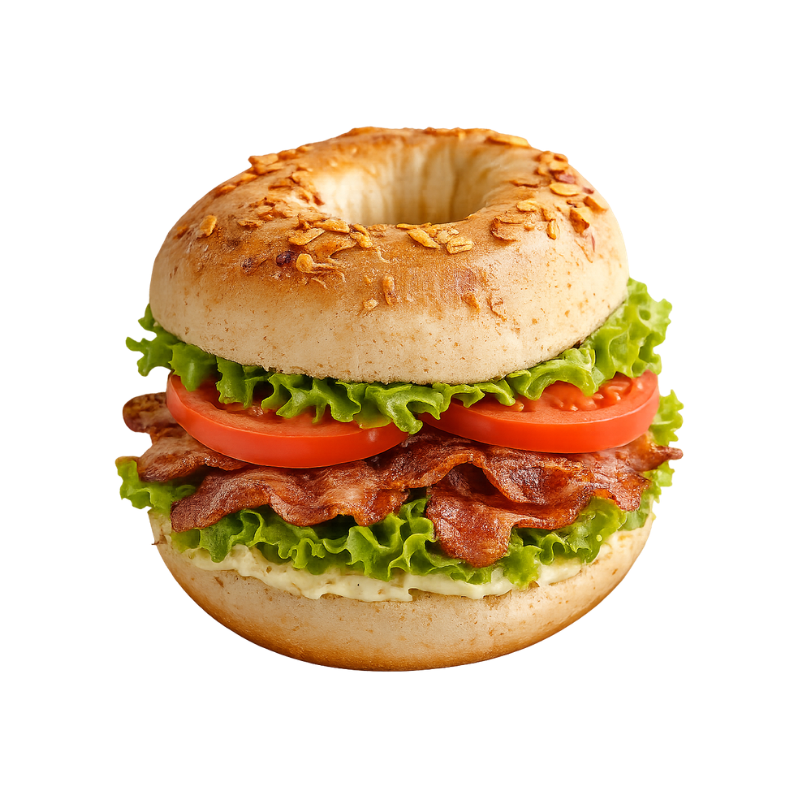
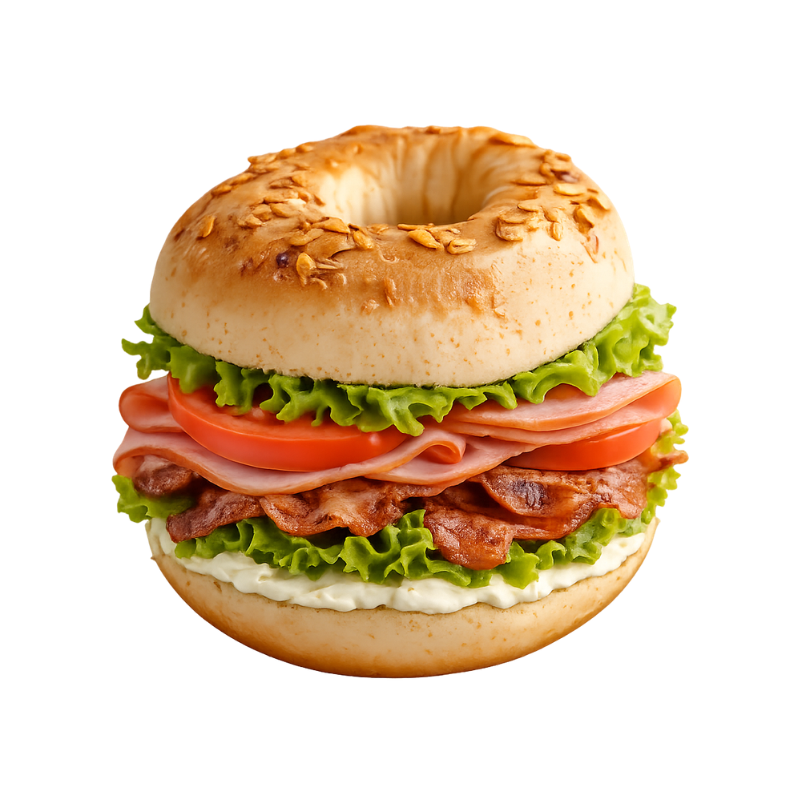
Add files via upload

Changed region(s): [[0.125, 0.1562, 0.875, 0.875]]

diff --git a/main.js b/main.js
@@ -47,65 +47,65 @@ DESAYUNOS_END*/
 const menuData = [
 
   /* ── BEBIDAS CALIENTES ────────────────────── */
-  { id:'espresso',          cat:'calientes', name:'Espresso',             desc:'Shot de espresso puro y concentrado.',                   priceM:'$35',  priceG:'$35', img:'./BEBIDAS/CALIENTES/C-1.png', gradient:'linear-gradient(135deg,#3a1a05,#7a3a10)' },
-  { id:'macciato',          cat:'calientes', name:'Macchiato',            desc:'Espresso con poca espuma de leche.',                     priceM:'$50',  priceG:'$50', img:'./BEBIDAS/CALIENTES/C-2.png', gradient:'linear-gradient(135deg,#4a2010,#8a4a20)' },
-  { id:'cappuccino',        cat:'calientes', name:'Cappuccino',           desc:'Espresso, poca leche y abundante espuma.',               priceM:'$65',  priceG:'$75', img:'./BEBIDAS/CALIENTES/C-3.png',gradient:'linear-gradient(135deg,#5a2a10,#a05020)' },
-  { id:'latte',             cat:'calientes', name:'Latte Natural',        desc:'Espresso con leche vaporizada.',                         priceM:'$65',  priceG:'$75', img:'./BEBIDAS/CALIENTES/C-4.png', gradient:'linear-gradient(135deg,#4a2810,#9a5830)' },
-  { id:'breve',             cat:'calientes', name:'Breve',                desc:'Espresso, mitad agua, mitad leche.',                     priceM:'$45',  priceG:'$55', img:'./BEBIDAS/CALIENTES/C-5.png', gradient:'linear-gradient(135deg,#3a1a08,#6a3a18)' },
-  { id:'americano',         cat:'calientes', name:'Espresso Americano',   desc:'Espresso con agua caliente.',                            priceM:'$45',  priceG:'$55', img:'./BEBIDAS/CALIENTES/C-6.png', gradient:'linear-gradient(135deg,#2a1005,#5a2a15)' },
-  { id:'caramel-macchiato', cat:'calientes', name:'Caramel Macchiato',    desc:'Espresso, caramelo, vainilla y leche.',                  priceM:'$85',  priceG:'$95', img:'./BEBIDAS/CALIENTES/C-7.png', gradient:'linear-gradient(135deg,#7a4a10,#c08030)' },
-  { id:'mocha',             cat:'calientes', name:'Mocha',                desc:'Espresso, chocolate y leche vaporizada.',                priceM:'$75',  priceG:'$85', img:'./BEBIDAS/CALIENTES/C-8.png', gradient:'linear-gradient(135deg,#3a1a0a,#6a3a1a)' },
-  { id:'choc-mexicano',     cat:'calientes', name:'Chocolate Mexicano',   desc:'Chocolate artesanal con leche caliente.',                priceM:'$60',  priceG:'$70', img:'./BEBIDAS/CALIENTES/C-9.png', gradient:'linear-gradient(135deg,#5a1a0a,#9a3a1a)' },
-  { id:'chailatte',         cat:'calientes', name:'Chai Latte',           desc:'Polvo chai con leche vaporizada.',                       priceM:'$75',  priceG:'$85', img:'./BEBIDAS/CALIENTES/C-10.png', gradient:'linear-gradient(135deg,#6a3a10,#b06030)' },
-  { id:'choc-blanco',       cat:'calientes', name:'Chocolate Blanco',     desc:'Chocolate blanco con leche caliente.',                   priceM:'$60',  priceG:'$70', img:'./BEBIDAS/CALIENTES/C-11.png', gradient:'linear-gradient(135deg,#5a3a20,#9a7040)' },
-  { id:'cookies-cream-hot', cat:'calientes', name:'Cookies & Cream',      desc:'Polvo cookies & cream con leche.',                       priceM:'$65',  priceG:'$75', img:'./BEBIDAS/CALIENTES/C-12.png', gradient:'linear-gradient(135deg,#2a1a1a,#5a3a3a)' },
-  { id:'matcha-green',      cat:'calientes', name:'Matcha Tea Green',     desc:'Polvo matcha premium con leche.',                        priceM:'$85',  priceG:'$95', img:'./BEBIDAS/CALIENTES/C-13.png', gradient:'linear-gradient(135deg,#4a2010,#8a4a20)' },
-  { id:'red-velvet-hot',    cat:'calientes', name:'Red Velvet',           desc:'Polvo red velvet con leche caliente.',                   priceM:'$75',  priceG:'$85', img:'./BEBIDAS/CALIENTES/C-14.png', gradient:'linear-gradient(135deg,#5a1a1a,#9a3a3a)' },
-  { id:'latte-mazapan',     cat:'calientes', name:'Latte de Mazapán',     desc:'Espresso, leche, mazapán y vainilla.',                   priceM:'$75',  priceG:'$85', img:'./BEBIDAS/CALIENTES/C-15.png', gradient:'linear-gradient(135deg,#6a3a10,#aa6a30)' },
+  { id:'espresso',          cat:'calientes', name:'Espresso',                       desc:'Shot de espresso.',                           priceM:'$35',  priceG:'$35', img:'./BEBIDAS/CALIENTES/C-1.png', gradient:'linear-gradient(135deg,#3a1a05,#7a3a10)' },
+  { id:'macciato',          cat:'calientes', name:'Macchiato',                      desc:'Espresso con poca espuma.',                   priceM:'$50',  priceG:'$50', img:'./BEBIDAS/CALIENTES/C-2.png', gradient:'linear-gradient(135deg,#4a2010,#8a4a20)' },
+  { id:'cappuccino',        cat:'calientes', name:'Cappuccino',                     desc:'Espresso, poca leche y espuma.',              priceM:'$65',  priceG:'$75', img:'./BEBIDAS/CALIENTES/C-3.png',gradient:'linear-gradient(135deg,#5a2a10,#a05020)' },
+  { id:'latte',             cat:'calientes', name:'Latte Natural',                  desc:'Espresso con leche.',                         priceM:'$65',  priceG:'$75', img:'./BEBIDAS/CALIENTES/C-4.png', gradient:'linear-gradient(135deg,#4a2810,#9a5830)' },
+  { id:'breve',             cat:'calientes', name:'Breve',                          desc:'Espresso, mitad agua, mitad leche.',          priceM:'$45',  priceG:'$55', img:'./BEBIDAS/CALIENTES/C-5.png', gradient:'linear-gradient(135deg,#3a1a08,#6a3a18)' },
+  { id:'americano',         cat:'calientes', name:'Espresso Americano',             desc:'Espresso con agua.',                          priceM:'$45',  priceG:'$55', img:'./BEBIDAS/CALIENTES/C-6.png', gradient:'linear-gradient(135deg,#2a1005,#5a2a15)' },
+  { id:'caramel-macchiato', cat:'calientes', name:'Caramel Macchiato',              desc:'Espresso, caramelo, vainilla y leche.',       priceM:'$85',  priceG:'$95', img:'./BEBIDAS/CALIENTES/C-7.png', gradient:'linear-gradient(135deg,#7a4a10,#c08030)' },
+  { id:'mocha',             cat:'calientes', name:'Mocha',                          desc:'Espresso, chocolate y leche.',                priceM:'$75',  priceG:'$85', img:'./BEBIDAS/CALIENTES/C-8.png', gradient:'linear-gradient(135deg,#3a1a0a,#6a3a1a)' },
+  { id:'choc-mexicano',     cat:'calientes', name:'Chocolate Mexicano',             desc:'Chocolate y leche.',                          priceM:'$60',  priceG:'$70', img:'./BEBIDAS/CALIENTES/C-9.png', gradient:'linear-gradient(135deg,#5a1a0a,#9a3a1a)' },
+  { id:'chailatte',         cat:'calientes', name:'Chai Latte',                     desc:'Polvo chai y leche.',                         priceM:'$75',  priceG:'$85', img:'./BEBIDAS/CALIENTES/C-10.png', gradient:'linear-gradient(135deg,#6a3a10,#b06030)' },
+  { id:'choc-blanco',       cat:'calientes', name:'Chocolate Blanco',               desc:'Chocolate blanco con leche.',                 priceM:'$60',  priceG:'$70', img:'./BEBIDAS/CALIENTES/C-11.png', gradient:'linear-gradient(135deg,#5a3a20,#9a7040)' },
+  { id:'cookies-cream-hot', cat:'calientes', name:'Chocolate Cookies & Cream',      desc:'Polvo cookies & cream con leche.',            priceM:'$65',  priceG:'$75', img:'./BEBIDAS/CALIENTES/C-12.png', gradient:'linear-gradient(135deg,#2a1a1a,#5a3a3a)' },
+  { id:'matcha-green',      cat:'calientes', name:'Matcha Tea Green',               desc:'Polvo matcha con leche.',                     priceM:'$85',  priceG:'$95', img:'./BEBIDAS/CALIENTES/C-13.png', gradient:'linear-gradient(135deg,#4a2010,#8a4a20)' },
+  { id:'red-velvet-hot',    cat:'calientes', name:'Red Velvet',                     desc:'Polvo red velvet con leche.',                 priceM:'$75',  priceG:'$85', img:'./BEBIDAS/CALIENTES/C-14.png', gradient:'linear-gradient(135deg,#5a1a1a,#9a3a3a)' },
+  { id:'latte-mazapan',     cat:'calientes', name:'Latte de Mazapán',               desc:'Espresso, leche, mazapán y vainilla.',        priceM:'$75',  priceG:'$85', img:'./BEBIDAS/CALIENTES/C-15.png', gradient:'linear-gradient(135deg,#6a3a10,#aa6a30)' },
 
   /* ── BOBA TEA ─────────────────────────────── */
-  { id:'boba-mazapan',      cat:'boba', name:'Boba Mazapán',        desc:'Polvo mazapán, leche, hielo, crema batida con boba a elegir.',               price:'$95', img:'./BEBIDAS/BOBA/B-1.png', gradient:'linear-gradient(135deg,#5a2a1a,#9a5a3a)' },
-  { id:'boba-taro',         cat:'boba', name:'Taro Boba',           desc:'Polvo taro, leche, hielo y crema batida con boba a elegir.',                 price:'$95', img:'./BEBIDAS/BOBA/B-2.png', gradient:'linear-gradient(135deg,#4a1a5a,#8a4a9a)' },
-  { id:'boba-pina',         cat:'boba', name:'Piña Colada Boba',    desc:'Polvo piña, leche o té, hielo y crema batida.',                             price:'$110', img:'./BEBIDAS/BOBA/B-3.png', gradient:'linear-gradient(135deg,#4a4a10,#8a8a30)' },
-  { id:'boba-frutosrojos',  cat:'boba', name:'Frutos Rojos Boba',   desc:'Mermelada de la casa, leche o té, crema batida con boba.',                  price:'$95',  img:'./BEBIDAS/BOBA/B-4.png', gradient:'linear-gradient(135deg,#4a1a2a,#8a3a5a)' },
-  { id:'boba-blueberry',    cat:'boba', name:'Blueberry Boba',      desc:'Mermelada de la casa, leche o té, crema batida con boba.',                  price:'$95',  img:'./BEBIDAS/BOBA/B-5.png', gradient:'linear-gradient(135deg,#1a1a5a,#3a3a9a)' },
-  { id:'boba-chai',         cat:'boba', name:'Chai Boba',           desc:'Polvo chai, leche, hielo y crema batida.',                                  price:'$110', img:'./BEBIDAS/BOBA/B-6.png', gradient:'linear-gradient(135deg,#5a3a10,#9a6a30)' },
-  { id:'boba-matcha',       cat:'boba', name:'Matcha Boba',         desc:'Polvo matcha, leche, hielo y crema batida.',                                price:'$110', img:'./BEBIDAS/BOBA/B-7.png', gradient:'linear-gradient(135deg,#1a3a1a,#3a6a3a)' },
-  { id:'boba-mango',        cat:'boba', name:'Mango Boba',          desc:'Mango, leche, base cristal, hielo y crema batida.',                        price:'$95',   img:'./BEBIDAS/BOBA/B-8.png', gradient:'linear-gradient(135deg,#5a3a10,#aa7020)' },
-  { id:'tisana-moras',      cat:'boba', name:'Tisana Moras',        desc:'Tisana moras, hielo con boba a elegir.',                                   price:'$95',   img:'./BEBIDAS/BOBA/B-9.png', gradient:'linear-gradient(135deg,#3a1a3a,#6a3a6a)' },
-  { id:'tisana-tropical',   cat:'boba', name:'Tisana Tropical',     desc:'Tisana fresa, kiwi, piña, coco, manzana con boba.',                        price:'$95',   img:'./BEBIDAS/BOBA/B-10.png', gradient:'linear-gradient(135deg,#3a4a10,#7a8a30)' },
-  { id:'tisana-fresa-kiwi', cat:'boba', name:'Tisana Fresa–Kiwi',   desc:'Tisana fresa y kiwi, hielo con boba.',                                     price:'$95',   img:'./BEBIDAS/BOBA/B-11.png', gradient:'linear-gradient(135deg,#5a1a1a,#9a4a1a)' },
-  { id:'tisana-temporada',  cat:'boba', name:'Tisana Temporada',    desc:'Tisana guayaba, manzana y canela con boba.',                               price:'$95',   img:'./BEBIDAS/BOBA/B-12.png', gradient:'linear-gradient(135deg,#5a1a1a,#9a3a1a)' },
+  { id:'boba-mazapan',      cat:'boba', name:'Mazapán',             desc:'Polvo mazapán, leche, hielo, mazapán, crema batida y boba, perla explosiva o jelly.',                                price:'$95', img:'./BEBIDAS/BOBA/B-1.png', gradient:'linear-gradient(135deg,#5a2a1a,#9a5a3a)' },
+  { id:'boba-taro',         cat:'boba', name:'Taro',                desc:'Polvo taro, leche, hielo, crema batida y boba, perla explosiva o jelly.',                                            price:'$95', img:'./BEBIDAS/BOBA/B-2.png', gradient:'linear-gradient(135deg,#4a1a5a,#8a4a9a)' },
+  { id:'boba-pina',         cat:'boba', name:'Piña Colada',         desc:'Polvo piña, leche o té, hielo, crema batida y boba, perla explosiva o jelly.',                                       price:'$110', img:'./BEBIDAS/BOBA/B-3.png', gradient:'linear-gradient(135deg,#4a4a10,#8a8a30)' },
+  { id:'boba-frutosrojos',  cat:'boba', name:'Frutos Rojos',        desc:'Mermelada de la casa, leche o té, esencia, hielo, crema batida y boba, perla explosiva o jelly.',                    price:'$95',  img:'./BEBIDAS/BOBA/B-4.png', gradient:'linear-gradient(135deg,#4a1a2a,#8a3a5a)' },
+  { id:'boba-blueberry',    cat:'boba', name:'Blueberrys',          desc:'Mermelada de la casa, leche o té, esencia, hielo, crema batida y boba, perla explosiva o jelly.',                    price:'$95',  img:'./BEBIDAS/BOBA/B-5.png', gradient:'linear-gradient(135deg,#1a1a5a,#3a3a9a)' },
+  { id:'boba-chai',         cat:'boba', name:'Chai',                desc:'Polvo chai, leche, hielo, crema batida y boba, perla explosiva o jelly.',                                            price:'$110', img:'./BEBIDAS/BOBA/B-6.png', gradient:'linear-gradient(135deg,#5a3a10,#9a6a30)' },
+  { id:'boba-matcha',       cat:'boba', name:'Matcha Green Tea',    desc:'Polvo matcha, leche, hielo, crema batida, mermelada(fresa, mango, blueberries) y boba, perla explosiva o jelly.',    price:'$110', img:'./BEBIDAS/BOBA/B-7.png', gradient:'linear-gradient(135deg,#1a3a1a,#3a6a3a)' },
+  { id:'boba-mango',        cat:'boba', name:'Mango',               desc:'Mango, leche, base cristal, hielo, crema batida y boba explosiva.',                                                  price:'$95',   img:'./BEBIDAS/BOBA/B-8.png', gradient:'linear-gradient(135deg,#5a3a10,#aa7020)' },
+  { id:'tisana-moras',      cat:'boba', name:'Tisana Moras',        desc:'Tisana moras, hielo y boba, perla explosiva o jelly.',                                                               price:'$95',   img:'./BEBIDAS/BOBA/B-9.png', gradient:'linear-gradient(135deg,#3a1a3a,#6a3a6a)' },
+  { id:'tisana-tropical',   cat:'boba', name:'Tisana Tropical',     desc:'Tisana moras, fresa, kiwi, piña, coco, manzana, hielo y boba, perla explosiva o jelly.',                             price:'$95',   img:'./BEBIDAS/BOBA/B-10.png', gradient:'linear-gradient(135deg,#3a4a10,#7a8a30)' },
+  { id:'tisana-fresa-kiwi', cat:'boba', name:'Tisana Fresa–Kiwi',   desc:'Tisana fresa, kiwi, hielo y boba, perla explosiva o jelly.',                                                         price:'$95',   img:'./BEBIDAS/BOBA/B-11.png', gradient:'linear-gradient(135deg,#5a1a1a,#9a4a1a)' },
+  { id:'tisana-temporada',  cat:'boba', name:'Tisana Temporada',    desc:'Tisana guayaba, manzana, canela y boba, perla explosiva o jelly.',                                                   price:'$95',   img:'./BEBIDAS/BOBA/B-12.png', gradient:'linear-gradient(135deg,#5a1a1a,#9a3a1a)' },
 
   /* ── BEBIDAS FRÍAS ────────────────────────── */
-  { id:'ice-latte',    cat:'frias', name:'Ice Latte',              desc:'Shot de espresso, leche y hielo.',                         priceM:'$75',  priceG:'$85', img:'./BEBIDAS/FRIAS/FR-1.png',  gradient:'linear-gradient(135deg,#1a1a3a,#3a3a6a)' },
-  { id:'ice-coffee',   cat:'frias', name:'Ice Coffee',             desc:'Shot de espresso, agua y hielo.',                          priceM:'$65',  priceG:'$75', img:'./BEBIDAS/FRIAS/FR-2.png',  gradient:'linear-gradient(135deg,#1a0a0a,#3a2a2a)' },
-  { id:'ice-caramel',  cat:'frias', name:'Ice Caramel Macchiato',  desc:'Espresso, vainilla, caramelo, leche y hielo.',             priceM:'$85',  priceG:'$95', img:'./BEBIDAS/FRIAS/FR-3.png',  gradient:'linear-gradient(135deg,#3a2a10,#7a6030)' },
-  { id:'ice-mocha',    cat:'frias', name:'Ice Mocha',              desc:'Espresso, leche, hielo y chocolate.',                      priceM:'$75',  priceG:'$85', img:'./BEBIDAS/FRIAS/FR-4.png',  gradient:'linear-gradient(135deg,#2a1a0a,#5a3a1a)' },
-  { id:'ice-chai',     cat:'frias', name:'Ice Chai Latte',         desc:'Polvo chai, leche y hielo.',                               priceM:'$75',  priceG:'$85', img:'./BEBIDAS/FRIAS/FR-5.png',  gradient:'linear-gradient(135deg,#4a2a10,#8a5a30)' },
-  { id:'ice-cookies',  cat:'frias', name:'Ice Cookies & Cream',    desc:'Polvo Cookies & Cream, leche, hielo y oreo.',              priceM:'$75',  priceG:'$85', img:'./BEBIDAS/FRIAS/FR-6.png',  gradient:'linear-gradient(135deg,#1a1a1a,#3a3a3a)' },
-  { id:'ice-matcha',   cat:'frias', name:'Ice Matcha Green Tea',   desc:'Polvo matcha, leche y hielo.',                             priceM:'$85',  priceG:'$95', img:'./BEBIDAS/FRIAS/FR-7.png',  gradient:'linear-gradient(135deg,#1a3a1a,#3a6a3a)' },
-  { id:'ice-tisanas',  cat:'frias', name:'Ice Tisanas',            desc:'Tisana moras, manzana canela o tropical, con hielo.',      priceM:'$75',  priceG:'$85', img:'./BEBIDAS/FRIAS/FR-8.png',  gradient:'linear-gradient(135deg,#1a2a1a,#3a5a3a)' },
-  { id:'ice-tea',      cat:'frias', name:'Ice Tea',                desc:'Té frutos rojos o té verde, esencia y hielo.',             priceM:'$60',  priceG:'$70', img:'./BEBIDAS/FRIAS/FR-9.png',  gradient:'linear-gradient(135deg,#3a1a2a,#6a3a4a)' },
-  { id:'soda-italiana',cat:'frias', name:'Soda Italiana',          desc:'Agua mineral, esencia y hielo.',                           priceM:'$65',  priceG:'$75', img:'./BEBIDAS/FRIAS/FR-10.png',  gradient:'linear-gradient(135deg,#1a2a3a,#3a5a7a)' },
-  { id:'ice-orange',   cat:'frias', name:'Ice Orange Coffee',      desc:'Espresso, agua, hielo, miel y jugo de naranja.',           priceM:'$75',  priceG:'$85', img:'./BEBIDAS/FRIAS/FR-11.png',  gradient:'linear-gradient(135deg,#5a3a10,#aa6a20)' },
+  { id:'ice-latte',    cat:'frias', name:'Ice Latte',              desc:'Shot de espresso, leche y hielo.',                                  priceM:'$75',  priceG:'$85', img:'./BEBIDAS/FRIAS/FR-1.png',  gradient:'linear-gradient(135deg,#1a1a3a,#3a3a6a)' },
+  { id:'ice-coffee',   cat:'frias', name:'Ice Coffee',             desc:'Shot de espresso, agua y hielo.',                                   priceM:'$65',  priceG:'$75', img:'./BEBIDAS/FRIAS/FR-2.png',  gradient:'linear-gradient(135deg,#1a0a0a,#3a2a2a)' },
+  { id:'ice-caramel',  cat:'frias', name:'Ice Caramel Macchiato',  desc:'Shot espresso, vainilla, caramelo, leche y hielo.',                 priceM:'$85',  priceG:'$95', img:'./BEBIDAS/FRIAS/FR-3.png',  gradient:'linear-gradient(135deg,#3a2a10,#7a6030)' },
+  { id:'ice-mocha',    cat:'frias', name:'Ice Mocha',              desc:'Shot espresso, polvo mocha, leche, hielo y chocolate.',             priceM:'$75',  priceG:'$85', img:'./BEBIDAS/FRIAS/FR-4.png',  gradient:'linear-gradient(135deg,#2a1a0a,#5a3a1a)' },
+  { id:'ice-chai',     cat:'frias', name:'Ice Chai Latte',         desc:'Polvo chai, leche y hielo.',                                        priceM:'$75',  priceG:'$85', img:'./BEBIDAS/FRIAS/FR-5.png',  gradient:'linear-gradient(135deg,#4a2a10,#8a5a30)' },
+  { id:'ice-cookies',  cat:'frias', name:'Ice Cookies & Cream',    desc:'Polvo Cookies & Cream, leche, hielo y oreo.',                       priceM:'$75',  priceG:'$85', img:'./BEBIDAS/FRIAS/FR-6.png',  gradient:'linear-gradient(135deg,#1a1a1a,#3a3a3a)' },
+  { id:'ice-matcha',   cat:'frias', name:'Ice Matcha Green Tea',   desc:'Polvo matcha, leche y hielo.',                                      priceM:'$85',  priceG:'$95', img:'./BEBIDAS/FRIAS/FR-7.png',  gradient:'linear-gradient(135deg,#1a3a1a,#3a6a3a)' },
+  { id:'ice-tisanas',  cat:'frias', name:'Ice Tisanas',            desc:'Tisana moras, manzana canela o tropical de temporada, hielo.',      priceM:'$75',  priceG:'$85', img:'./BEBIDAS/FRIAS/FR-8.png',  gradient:'linear-gradient(135deg,#1a2a1a,#3a5a3a)' },
+  { id:'ice-tea',      cat:'frias', name:'Ice Tea',                desc:'Té frutos rojos o té verde, esencia y hielo.',                      priceM:'$60',  priceG:'$70', img:'./BEBIDAS/FRIAS/FR-9.png',  gradient:'linear-gradient(135deg,#3a1a2a,#6a3a4a)' },
+  { id:'soda-italiana',cat:'frias', name:'Soda Italiana',          desc:'Agua mineral, esencia y hielo.',                                    priceM:'$65',  priceG:'$75', img:'./BEBIDAS/FRIAS/FR-10.png',  gradient:'linear-gradient(135deg,#1a2a3a,#3a5a7a)' },
+  { id:'ice-orange',   cat:'frias', name:'Ice Orange Coffee',      desc:'Shot espresso, agua, hielo, miel y jugo de naranja.',               priceM:'$75',  priceG:'$85', img:'./BEBIDAS/FRIAS/FR-11.png',  gradient:'linear-gradient(135deg,#5a3a10,#aa6a20)' },
 
   /* ── FRAPPUCCINOS ─────────────────────────── */
-  { id:'frappe-mocha',       cat:'frappuccinos', name:'Frappuccino Mocha',       desc:'Polvo mocha, espresso, leche, hielo, chocolate y crema batida.',               priceM:'$75',  priceG:'$85', img:'./BEBIDAS/FRAPPUCCINOS/F-1.png',   gradient:'linear-gradient(135deg,#3a1a0a,#6a3a1a)' },
-  { id:'frappe-caramel',     cat:'frappuccinos', name:'Frappuccino Caramel',     desc:'Polvo francesa, vainilla, caramelo, leche, hielo y crema batida.',             priceM:'$75',  priceG:'$85', img:'./BEBIDAS/FRAPPUCCINOS/F-2.png',   gradient:'linear-gradient(135deg,#6a3a10,#aa6a30)' },
-  { id:'frappe-vainilla',    cat:'frappuccinos', name:'Frappuccino Vainilla',    desc:'Polvo vainilla, leche, hielo y crema batida.',                                 priceM:'$75',  priceG:'$85', img:'./BEBIDAS/FRAPPUCCINOS/F-3.png',   gradient:'linear-gradient(135deg,#5a3a20,#9a7040)' },
-  { id:'frappe-oreo',        cat:'frappuccinos', name:'Frappuccino Oreo',        desc:'Polvo Cookies & Cream, oreo, leche, hielo y crema batida.',                    priceM:'$75',  priceG:'$85', img:'./BEBIDAS/FRAPPUCCINOS/F-4.png',   gradient:'linear-gradient(135deg,#1a1a1a,#4a4a4a)' },
-  { id:'frappe-chai',        cat:'frappuccinos', name:'Frappuccino Chai',        desc:'Polvo chai, leche, hielo y crema batida.',                                     priceM:'$75',  priceG:'$85', img:'./BEBIDAS/FRAPPUCCINOS/F-5.png',   gradient:'linear-gradient(135deg,#5a3a10,#9a6a30)' },
-  { id:'frappe-ferrero',     cat:'frappuccinos', name:'Frappuccino Ferrero',     desc:'Polvo vainilla, avellana, crema avellana, leche y crema batida.',              priceM:'$90',  priceG:'$100',img:'./BEBIDAS/FRAPPUCCINOS/F-6.png',  gradient:'linear-gradient(135deg,#4a2a10,#8a5a30)' },
-  { id:'frappe-matcha',      cat:'frappuccinos', name:'Frappuccino Matcha',      desc:'Polvo matcha, leche, hielo y crema batida.',                                   priceM:'$85',  priceG:'$95', img:'./BEBIDAS/FRAPPUCCINOS/F-7.png',  gradient:'linear-gradient(135deg,#1a3a1a,#3a6a3a)' },
-  { id:'frappe-reeses',      cat:'frappuccinos', name:'Frappuccino Reeses',      desc:'Polvo vainilla, leche, crema de cacahuate, hielo y chocolate.',                priceM:'$90',  priceG:'$100', img:'./BEBIDAS/FRAPPUCCINOS/F-8.png', gradient:'linear-gradient(135deg,#5a3a10,#9a6a30)' },
-  { id:'frappe-nutella',     cat:'frappuccinos', name:'Frappuccino Nutella',     desc:'Polvo chocolate, nutella, leche, hielo y crema batida.',                       priceM:'$85',  priceG:'$95', img:'./BEBIDAS/FRAPPUCCINOS/F-9.png',  gradient:'linear-gradient(135deg,#3a1a0a,#6a3a1a)' },
-  { id:'frappe-galleta',     cat:'frappuccinos', name:'Explosión de Galleta',    desc:'Polvo francesa, espresso, galleta maría, leche y crema batida.',               priceM:'$75',  priceG:'$85', img:'./BEBIDAS/FRAPPUCCINOS/F-10.png',  gradient:'linear-gradient(135deg,#5a3a20,#9a7040)' },
-  { id:'frappe-cherry',      cat:'frappuccinos', name:'Cherry Frappe',           desc:'Polvo vainilla, cereza, leche y hielo.',                                       priceM:'$85',  priceG:'$95', img:'./BEBIDAS/FRAPPUCCINOS/F-11.png',  gradient:'linear-gradient(135deg,#5a1a1a,#9a3a3a)' },
-  { id:'frappe-creme-brulee',cat:'frappuccinos', name:'Creme Brûlée',            desc:'Polvo de creme brûlée, leche, hielo, trozos de flan y jarabe de maple.',       priceM:'$100', priceG:'$110',img:'./BEBIDAS/FRAPPUCCINOS/F-12.png',  gradient:'linear-gradient(135deg,#6a4a10,#aa8030)' },
-  { id:'frappe-chomenta',    cat:'frappuccinos', name:'Choco–Menta',             desc:'Polvo mocha, espresso, menta, leche, hielo y chocolate.',                      priceM:'$85',  priceG:'$95', img:'./BEBIDAS/FRAPPUCCINOS/F-13.png', gradient:'linear-gradient(135deg,#1a3a1a,#3a6a4a)' },
-  { id:'frappe-mazapan',     cat:'frappuccinos', name:'Frappuccino Mazapán',     desc:'Polvo vainilla, mazapán, leche, hielo y crema batida.',                        priceM:'$75',  priceG:'$85', img:'./BEBIDAS/FRAPPUCCINOS/F-14.png',  gradient:'linear-gradient(135deg,#5a3a10,#9a6a30)' },
-  { id:'frappe-bombon',      cat:'frappuccinos', name:'Frappuccino Bombón',      desc:'Polvo vainilla, leche, bombón, hielo y crema batida.',                         priceM:'$85',  priceG:'$95', img:'./BEBIDAS/FRAPPUCCINOS/F-15.png', gradient:'linear-gradient(135deg,#5a1a3a,#9a3a6a)' },
+  { id:'frappe-mocha',       cat:'frappuccinos', name:'Frappuccino Mocha',       desc:'Polvo mocha, shot espresso, leche, hielo, chocolate, galleta y crema batida.',        priceM:'$75',  priceG:'$85', img:'./BEBIDAS/FRAPPUCCINOS/F-1.png',   gradient:'linear-gradient(135deg,#3a1a0a,#6a3a1a)' },
+  { id:'frappe-caramel',     cat:'frappuccinos', name:'Frappuccino Caramel',     desc:'Polvo francesa, vainilla, caramelo, leche, hielo, galleta y crema batida.',           priceM:'$75',  priceG:'$85', img:'./BEBIDAS/FRAPPUCCINOS/F-2.png',   gradient:'linear-gradient(135deg,#6a3a10,#aa6a30)' },
+  { id:'frappe-vainilla',    cat:'frappuccinos', name:'Frappuccino Vainilla',    desc:'Polvo vainilla, leche, hielo, galleta y crema batida.',                               priceM:'$75',  priceG:'$85', img:'./BEBIDAS/FRAPPUCCINOS/F-3.png',   gradient:'linear-gradient(135deg,#5a3a20,#9a7040)' },
+  { id:'frappe-oreo',        cat:'frappuccinos', name:'Frappuccino Oreo',        desc:'Polvo Cookies & Cream, oreo, leche, hielo, galleta y crema batida.',                  priceM:'$75',  priceG:'$85', img:'./BEBIDAS/FRAPPUCCINOS/F-4.png',   gradient:'linear-gradient(135deg,#1a1a1a,#4a4a4a)' },
+  { id:'frappe-chai',        cat:'frappuccinos', name:'Frappuccino Chai',        desc:'Polvo chai, leche, hielo, galleta y crema batida.',                                   priceM:'$75',  priceG:'$85', img:'./BEBIDAS/FRAPPUCCINOS/F-5.png',   gradient:'linear-gradient(135deg,#5a3a10,#9a6a30)' },
+  { id:'frappe-ferrero',     cat:'frappuccinos', name:'Frappuccino Ferrero',     desc:'Polvo vainilla, avellana, crema avellana, leche, hielo y crema batida.',              priceM:'$90',  priceG:'$100',img:'./BEBIDAS/FRAPPUCCINOS/F-6.png',  gradient:'linear-gradient(135deg,#4a2a10,#8a5a30)' },
+  { id:'frappe-matcha',      cat:'frappuccinos', name:'Frappuccino Matcha',      desc:'Polvo matcha, leche, hielo, galleta y crema batida.',                                 priceM:'$85',  priceG:'$95', img:'./BEBIDAS/FRAPPUCCINOS/F-7.png',  gradient:'linear-gradient(135deg,#1a3a1a,#3a6a3a)' },
+  { id:'frappe-reeses',      cat:'frappuccinos', name:'Frappuccino Reeses',      desc:'Polvo vainilla, leche, crema de cacahuate, hielo, crema batida  y chocolate.',        priceM:'$90',  priceG:'$100', img:'./BEBIDAS/FRAPPUCCINOS/F-8.png', gradient:'linear-gradient(135deg,#5a3a10,#9a6a30)' },
+  { id:'frappe-nutella',     cat:'frappuccinos', name:'Frappuccino Nutella',     desc:'Polvo chocolate, nutella, leche, hielo y crema batida.',                              priceM:'$85',  priceG:'$95', img:'./BEBIDAS/FRAPPUCCINOS/F-9.png',  gradient:'linear-gradient(135deg,#3a1a0a,#6a3a1a)' },
+  { id:'frappe-galleta',     cat:'frappuccinos', name:'Explosión de Galleta',    desc:'Polvo francesa, shot espresso, galleta maría, leche, hielo y crema batida.',          priceM:'$75',  priceG:'$85', img:'./BEBIDAS/FRAPPUCCINOS/F-10.png',  gradient:'linear-gradient(135deg,#5a3a20,#9a7040)' },
+  { id:'frappe-cherry',      cat:'frappuccinos', name:'Cherry Frappe',           desc:'Polvo vainilla, cereza, leche y hielo.',                                              priceM:'$85',  priceG:'$95', img:'./BEBIDAS/FRAPPUCCINOS/F-11.png',  gradient:'linear-gradient(135deg,#5a1a1a,#9a3a3a)' },
+  { id:'frappe-creme-brulee',cat:'frappuccinos', name:'Creme Brûlée',            desc:'Polvo de creme brûlée, leche, hielo, trozos de flan y jarabe de mapple.',             priceM:'$100', priceG:'$110',img:'./BEBIDAS/FRAPPUCCINOS/F-12.png',  gradient:'linear-gradient(135deg,#6a4a10,#aa8030)' },
+  { id:'frappe-chomenta',    cat:'frappuccinos', name:'Choco–Menta',             desc:'Polvo moca, shot espresso, menta, leche, hielo, chocolate y crema batida.',           priceM:'$85',  priceG:'$95', img:'./BEBIDAS/FRAPPUCCINOS/F-13.png', gradient:'linear-gradient(135deg,#1a3a1a,#3a6a4a)' },
+  { id:'frappe-mazapan',     cat:'frappuccinos', name:'Frappuccino Mazapán',     desc:'Polvo vainilla, mazapán, leche, hielo y crema batida.',                               priceM:'$75',  priceG:'$85', img:'./BEBIDAS/FRAPPUCCINOS/F-14.png',  gradient:'linear-gradient(135deg,#5a3a10,#9a6a30)' },
+  { id:'frappe-bombon',      cat:'frappuccinos', name:'Frappuccino Bombón',      desc:'Polvo vainilla, leche, bombón, hielo y crema batida.',                                priceM:'$85',  priceG:'$95', img:'./BEBIDAS/FRAPPUCCINOS/F-15.png', gradient:'linear-gradient(135deg,#5a1a3a,#9a3a6a)' },
 
   /* ── POSTRES/DULCE ──────────────────────────────── */
   { id:'pay-limon',        cat:'postres', name:'Pay de Limón',          desc:'Rebanada de pay de queso con limón.',                              price:'$55', img:'./POSTRES/DULCE/1-P.png' },
@@ -114,7 +114,7 @@ const menuData = [
   { id:'pay-frambuesa',    cat:'postres', name:'Pay de Queso Frambuesa',desc:'Rebanada de pay de queso con frambuesa.',                          price:'$65', img:'./POSTRES/DULCE/4-P.png' },
   { id:'galletas',         cat:'postres', name:'Galletas',              desc:'Galletas artesanales, precio por pieza.',                          price:'$15', img:'./POSTRES/DULCE/5-P.png' },
   { id:'pan-dulce',        cat:'postres', name:'Pan Dulce',             desc:'Selección de pan dulce, precio por pieza.',                        price:'$25', img:'./POSTRES/DULCE/6-P.png' },
-  { id:'pan-frances',      cat:'postres', name:'Pan Frances',           desc:'Pan Frances con nieve, elige tu opción favorita.',                                      price:'$200', img:'./POSTRES/DULCE/7-P.png',
+  { id:'pan-frances',      cat:'postres', name:'Pan Frances',           desc:'Pan Frances con nieve, elige tu opción favorita.',                 price:'$200', img:'./POSTRES/DULCE/7-P.png',
     opcionesP: [
       { nombre:'Ferrero o Kinder bueno'},
       { nombre:'Tiramisú'},
@@ -123,7 +123,7 @@ const menuData = [
       { nombre:'Cinnamon'},
     ]
   },
-  { id:'crepa-dulce',      cat:'postres', name:'Crepas',                desc:'Crepas dulces con nieve, elige tu opción favorita.',                                    price:'$150', img:'./POSTRES/DULCE/8-P.png',
+  { id:'crepa-dulce',      cat:'postres', name:'Crepas',                desc:'Crepas dulces con nieve, elige tu opción favorita.',                price:'$150', img:'./POSTRES/DULCE/8-P.png',
     opcionesD: [
       { nombre:'Nutella con Plátano'},
       { nombre:'Ferrero'},
@@ -134,18 +134,18 @@ const menuData = [
   },
 
   /* ── SALADOS ──────────────────────────────── */
-  { id:'bagel-jamon',    cat:'salados', name:'Bagel de Jamón',              desc:'Jamón, lechuga, tomate, tocino y mayonesa.',                                             price:'$85',  img:'./SALADOS/S-1.png', gradient:'linear-gradient(135deg,#3a2a1a,#7a5a3a)' },
-  { id:'bagel-pollo',    cat:'salados', name:'Bagel de Pollo',              desc:'Pollo, lechuga, tomate, tocino y mayonesa.',                                             price:'$100', img:'./SALADOS/S-2.png', gradient:'linear-gradient(135deg,#4a3a1a,#8a6a3a)' },
-  { id:'bagel-americano',cat:'salados', name:'Bagel Americano',             desc:'Huevo, jamón, tocino y queso amarillo.',                                                 price:'$85',  img:'./SALADOS/S-3.png', gradient:'linear-gradient(135deg,#5a3a10,#9a6a30)' },
-  { id:'sandwich-jamon', cat:'salados', name:'Sandwich de Jamón',           desc:'Jamón, lechuga, tomate, tocino y mayonesa.',                                             price:'$85',  img:'./SALADOS/S-4.png', gradient:'linear-gradient(135deg,#3a2a1a,#7a5a3a)' },
-  { id:'sandwich-pollo', cat:'salados', name:'Sandwich de Pollo',           desc:'Pollo, lechuga, tomate, tocino y mayonesa.',                                             price:'$95',  img:'./SALADOS/S-5.png', gradient:'linear-gradient(135deg,#4a3a1a,#8a6a3a)' },
+  { id:'bagel-jamon',    cat:'salados', name:'Bagel de Jamón',              desc:'Jamón, lechuga, tomate, tocino y queso crema.',                                          price:'$85',  img:'./SALADOS/S-1.png', gradient:'linear-gradient(135deg,#3a2a1a,#7a5a3a)' },
+  { id:'bagel-pollo',    cat:'salados', name:'Bagel de Pollo',              desc:'Pollo, lechuga, tomate, queso amarillo y queso crema.',                                  price:'$100', img:'./SALADOS/S-2.png', gradient:'linear-gradient(135deg,#4a3a1a,#8a6a3a)' },
+  { id:'bagel-americano',cat:'salados', name:'Bagel Americano',             desc:'Huevo, jamón, tocino, queso amarillo y queso crema.',                                    price:'$85',  img:'./SALADOS/S-3.png', gradient:'linear-gradient(135deg,#5a3a10,#9a6a30)' },
+  { id:'sandwich-jamon', cat:'salados', name:'Sandwich de Jamón',           desc:'Jamón, lechuga, tomate, queso amarillo y mayonesa.',                                     price:'$85',  img:'./SALADOS/S-4.png', gradient:'linear-gradient(135deg,#3a2a1a,#7a5a3a)' },
+  { id:'sandwich-pollo', cat:'salados', name:'Sandwich de Pollo',           desc:'Pollo, lechuga, tomate, queso amarillo y mayonesa.',                                     price:'$95',  img:'./SALADOS/S-5.png', gradient:'linear-gradient(135deg,#4a3a1a,#8a6a3a)' },
   { id:'croissant',      cat:'salados', name:'Croissant de Jamón Serrano',  desc:'Jamón Serrano, queso panela, mix de ensalada primavera.',                                price:'$145', img:'./SALADOS/S-9.png', gradient:'linear-gradient(135deg,#4a3a1a,#8a6a3a)' },
   { id:'croissant',      cat:'salados', name:'Croissant de Huevo',          desc:'Huevo, jamón, germinado.',                                                               price:'$145', img:'./SALADOS/S-10.png', gradient:'linear-gradient(135deg,#4a3a1a,#8a6a3a)' },
   { id:'croissant',      cat:'salados', name:'Croissant de Jamón',          desc:'Jamón, queso mozzarella, mix de ensalada primavera.',                                    price:'$145', img:'./SALADOS/S-11.png', gradient:'linear-gradient(135deg,#4a3a1a,#8a6a3a)' },
   { id:'croissant',      cat:'salados', name:'Croissant de Manchego',       desc:'Jamón, queso manchego, tomate, lechuga.',                                                price:'$145', img:'./SALADOS/S-12.png', gradient:'linear-gradient(135deg,#4a3a1a,#8a6a3a)' },
-  { id:'ensalada-cesar', cat:'salados', name:'Ensalada Pollo',              desc:'Lechuga romana, pollo, chile morrón, tomate cherry, zanahoria, croutons y aderezo.',     price:'$120', img:'./SALADOS/S-6.png', gradient:'linear-gradient(135deg,#1a2a1a,#3a5a3a)' },
-  { id:'ensalada-papa',  cat:'salados', name:'Ensalada de Papa',            desc:'Zanahoria, chícharo, cebollín, mayonesa y pollo.',                                       price:'$80', img:'./SALADOS/S-7.png', gradient:'linear-gradient(135deg,#3a3a1a,#6a6a3a)' },
-  { id:'ensalada-pasta', cat:'salados', name:'Pasta Pesto',                 desc:'Tomate cherry, queso panela y pollo.',                                                   price:'$80', img:'./SALADOS/S-8.png', gradient:'linear-gradient(135deg,#2a3a1a,#5a7a3a)' },
+  { id:'ensalada-cesar', cat:'salados', name:'Ensalada Pollo',              desc:'Lechuga, pollo, chile morrón, tomate cherry, zanahoria, croutons, pepino y aderezo.',    price:'$120', img:'./SALADOS/S-6.png', gradient:'linear-gradient(135deg,#1a2a1a,#3a5a3a)' },
+  { id:'ensalada-papa',  cat:'salados', name:'Ensalada de Papa',            desc:'Zanahoria, papa, mayonesa y pollo.',                                                     price:'$80', img:'./SALADOS/S-7.png', gradient:'linear-gradient(135deg,#3a3a1a,#6a6a3a)' },
+  { id:'ensalada-pasta', cat:'salados', name:'Pasta Pesto',                 desc:'Pasta, pesto, tomate cherry, queso panela y pollo.',                                     price:'$80', img:'./SALADOS/S-8.png', gradient:'linear-gradient(135deg,#2a3a1a,#5a7a3a)' },
   { id:'crepa-salada',   cat:'salados', name:'Crepas Saladas',              desc:'Rellenas al gusto, elige tu opción favorita.',                                           price:'$180', img:'./SALADOS/S-13.png', gradient:'linear-gradient(135deg,#2a3a1a,#5a7a3a)',
     opciones: [
       { nombre:'Carnes Frías',    desc:'Relleno de carnes frías, mix de lechuga y espinaca, queso feta y aguacate.' },
@@ -160,7 +160,6 @@ CATEGORÍAS
 ═══════════════════════════════════════════════ */
 const categories = [
   { id:'all',          name:'Todo',         emoji:'✨' },
-  // { id:'desayunos', name:'Desayunos',    emoji:'🍳' }, // DESAYUNOS_CAT
   { id:'calientes',    name:'Calientes',    emoji:'☕' },
   { id:'boba',         name:'Boba Tea',     emoji:'🍵' },
   { id:'frias',        name:'Frías',        emoji:'🧊' },
